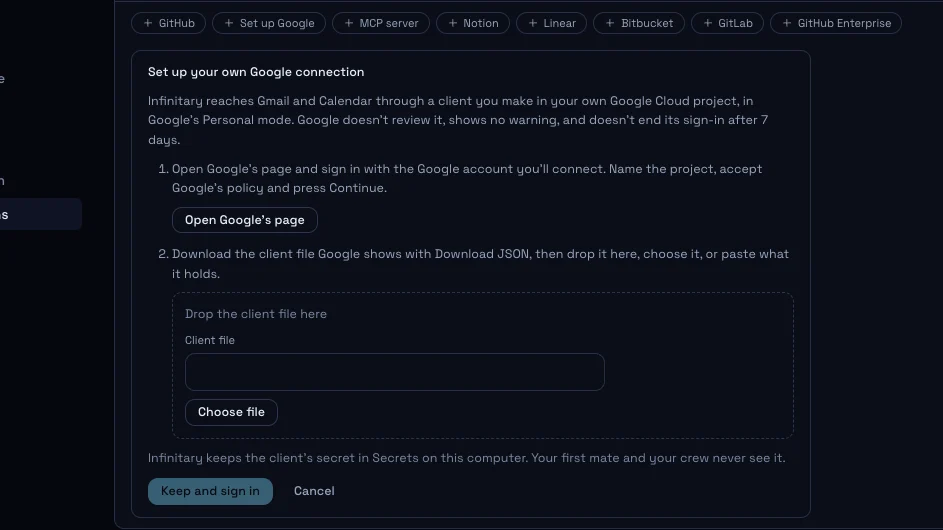
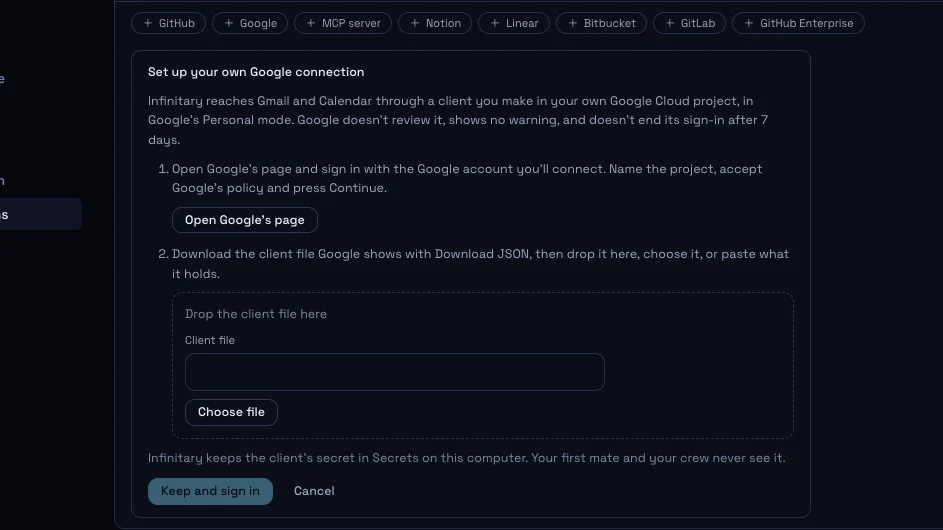
fix(integrations): show the plain Google chip in the setup's release note picture, and mend the docs line about it
The release note's hero pair still showed the chip's old Set up Google label, and the docs sentence on where the chip opens the setup had lost a word.

Changed region(s): [[0.246, 0.0302, 0.9533, 0.0604]]

diff --git a/docs/integrations.md b/docs/integrations.md
@@ -259,7 +259,7 @@ A sign-in in which the person unchecked any Gmail or Calendar permission is hand
 The lasting key is a hidden Secrets entry labelled Google sign-in ("Keys"), used only through the `google-sign-in` broker: it puts the key in the `refresh_token` field of one renewal form sent to Google's token address, and hands the answer back to the binding.
 The access key that renewal makes lives only in the app's memory, as each Gmail or Calendar request's bearer; a start renews once.
 The person's own client is its id and the Secrets reference of its secret in `userData/integrations/google-client.json`, 0600 (`GoogleClientStore`), and its secret a second hidden Secrets entry labelled Google client; the binding's `keepClient` is the one writer of both.
-Without a kept client, Settings → Integrations the Google chip opens the setup in place of the sign-in (`GoogleClientSetup.tsx`).
+Without a kept client, the Google chip in Settings → Integrations opens the setup in place of the sign-in (`GoogleClientSetup.tsx`).
 Its first step opens Google's page for a Desktop app client in Personal mode (`GOOGLE_CLIENT_SETUP_PAGE`); its second takes the client file Google gives for it, dropped, chosen or pasted into a masked field, and hands it whole to the home through `inf:integrations:client`.
 The home reads the file's `installed` fields (`clientFile.ts`), refusing a Web application file, one that is not Google's, or one missing its id or secret, and keeps nothing it refused; a file it takes becomes the kept client through `keepClientFile`, and the setup goes on to Google's notice and consent page for that client, reminding the person to sign in with the Google account that made it.
 The row's typed client facts (`client` on the row and the addable entry: `kept`, `refused`, `retiring`, `endsAt`, and `runClient` for a run that names its own client) give its seven states: Set up with no client kept; Sign in with one kept and no sign-in; Connected; Sign in again for a refused sign-in; Your Google client stopped, offering Set up again, when Google refused the client; Stops on a date, offering Set up again, when the sign-in records when it ends, since a client still in Testing ends each sign-in after seven days; and Set up your own connection for a sign-in still on Infinitary's registered client.
